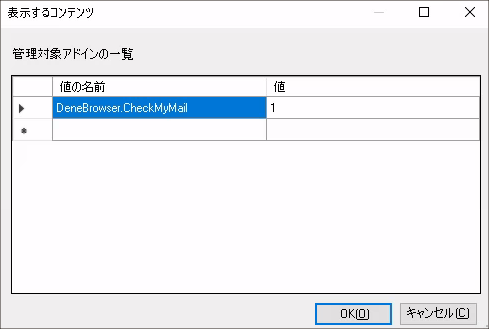
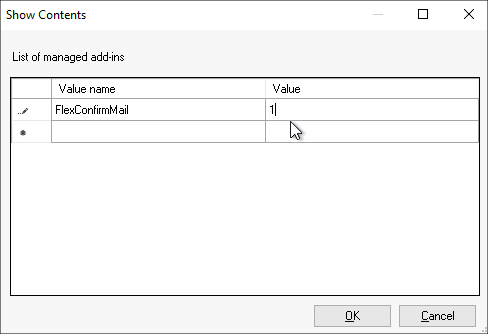
Overhaul FlexConfirmMailGuide
This one includes new screenshot images taken on WinServer 2022
using FlexConfirmMail's prerelease installer.

Note: I'm planning to release the initial version of FlexConfirmMail
as "v0.1.0".

diff --git a/doc/FlexConfirmMailGuide/FlexConfirmMailGuide.md b/doc/FlexConfirmMailGuide/FlexConfirmMailGuide.md
@@ -2,9 +2,9 @@
 CJKmainfont: Noto Sans CJK JP
 CJKoptions:
   - BoldFont=Noto Sans CJK JP Bold
-title:     CheckMyMail管理者マニュアル v1.1.0
-author:    DeneBrowser
-date:      2022-01-10
+title:     FlexConfirmMail for Outlook \newline 管理者マニュアル v0.1.0
+author:    ClearCode Inc.
+date:      2022-01-19
 logo:      fcm-logo.png
 logo-width: 300
 titlepage: true
@@ -18,9 +18,10 @@ titlepage-rule-color: "AA0000"
 titlepage-rule-height: 2
 ---
 
-# CheckMyMailとは
+# FlexConfirmMailとは
 
-CheckMyMailは、誤送信を防止するための、オープンソースのOutlookアドオンです。
+FlexConfirmMail for Outlook （以下、本文書では FlexConfirmMail と呼びます）は、
+誤送信を防止するためのオープンソースのOutlookアドオンです。
 送信時に宛先と添付ファイルをダイアログで確認することで、送信ミスを防ぎます。
 
  * メールの送信時に、宛先と添付ファイルを確認するダイアログを表示します。
@@ -29,7 +30,7 @@ CheckMyMailは、誤送信を防止するための、オープンソースのOut
 
 ## システム要件
 
-CheckMyMailは次のシステムをサポートしています。
+FlexConfirmMailは次のシステムをサポートしています。
 
  | 項目             | サポートバージョン |
  | ---------------- | ------------------ |
@@ -38,16 +39,16 @@ CheckMyMailは次のシステムをサポートしています。
 
 ## ソフトウェアの構成
 
-CheckMyMailインストーラには次のファイルが含まれています。
+FlexConfirmMailインストーラには次のファイルが含まれています。
 
-| ファイル                 |  設定内容                           |
-| ------------------------ | ----------------------------------- |
-| CheckMyMail.dll          | CheckMyMail本体                     |
-| CheckMyMail.dll.manifest | CheckMyMailマニフェスト             |
-| CheckMyMail.vsto         | Outlook向けのアドオン定義           |
-| fcm.ico                  | アイコンファイル                    |
-| unins000.exe             | アンインストーラ                    |
-| unins000.dat             | アンインストーラ（データファイル）  |
+| ファイル                     |  設定内容                           |
+| ---------------------------- | ----------------------------------- |
+| FlexConfirmMail.dll          | FlexConfirmMail本体                 |
+| FlexConfirmMail.dll.manifest | FlexConfirmMailマニフェスト         |
+| FlexConfirmMail.vsto         | Outlook向けのアドオン定義           |
+| fcm.ico                      | アイコンファイル                    |
+| unins000.exe                 | アンインストーラ                    |
+| unins000.dat                 | アンインストーラ（データファイル）  |
 | Microsoft.Office.Tools.Common.v4.0.Utilities.dll | VSTOアドオンライブラリ |
 | Microsoft.Office.Tools.Outlook.v4.0.Utilities.dll | VSTOアドオンライブラリ |
 
@@ -55,13 +56,11 @@ CheckMyMailインストーラには次のファイルが含まれています。
 
 # 導入とセットアップ
 
-この章ではCheckMyMailのインストール（およびアンインストール）手順を解説します。
+この章ではFlexConfirmMailのインストール（およびアンインストール）手順を解説します。
 
-## CheckMyMailをインストールする
+## FlexConfirmMailをインストールする
 
-1. [リリースページ](https://github.com/DeneBrowser/CheckMyMail/releases/)から最新のインストーラを取得します。
-
-   ![](download.png){width=400}
+1. 最新のインストーラを取得します。
 
 2. インストーラを実行し、ウィザードを完遂させます。
 
@@ -71,28 +70,28 @@ CheckMyMailインストーラには次のファイルが含まれています。
 
    ![](warning.png){width=400}
 
-4. メニューバーの「ファイル」からオプションを選択し、有効なアドオンの一覧にCheckMyMailがあることが確認できれば成功です。
+4. メニューバーの「ファイル」からオプションを選択し、有効なアドオンの一覧にFlexConfirmMailがあることが確認できれば成功です。
 
    ![](option.png){width=400}
 
-## CheckMyMailをアンインストールする
+## FlexConfirmMailをアンインストールする
 
  1. スタートメニューから「プログラムの追加と削除」を起動します。
 
- 2. CheckMyMailを選択し「アンインストール」を選択します。
+ 2. FlexConfirmMailを選択し「アンインストール」を選択します。
 
- 3. ディレクトリ`C:\ProgramData\CheckMyMail`を削除します。
+ 3. ディレクトリ`C:\ProgramData\FlexConfirmMail`を削除します。
 
 \newpage
 
-# CheckMyMailの設定
+# FlexConfirmMailの設定
 
- * CheckMyMailの設定ファイルは`C:\ProgramData\CheckMyMail`ディレクトリに配置します。
+ * FlexConfirmMailの設定ファイルは`C:\ProgramData\FlexConfirmMail`ディレクトリに配置します。
  * 設定ファイルの文字コードは「UTF-8」のみサポートしています。
 
 ## 社内ドメインを設定する
 
- 1. テキストエディタで`C:\ProgramData\CheckMyMail\trusted.txt`を開きます。
+ 1. テキストエディタで`C:\ProgramData\FlexConfirmMail\trusted.txt`を開きます。
 
  2. ファイルに社内の宛先として登録したいドメインを追記します。
 
@@ -104,7 +103,7 @@ CheckMyMailインストーラには次のファイルが含まれています。
 
 宛先に含まれる場合に、特に注意が必要なドメインの一覧を設定します。
 
- 1. テキストエディタで`C:\ProgramData\CheckMyMail\unsafe.txt`を開きます。
+ 1. テキストエディタで`C:\ProgramData\FlexConfirmMail\unsafe.txt`を開きます。
 
  2. ファイルに対象となるドメインを追記します。
 
@@ -120,11 +119,11 @@ CheckMyMailインストーラには次のファイルが含まれています。
 
 ## インストーラをサイレント実行したい
 
-組織の端末に配布する時などに、CheckMyMailをサイレントインストールしたい場合は、
+組織の端末に配布する時などに、FlexConfirmMailをサイレントインストールしたい場合は、
 次のように `/SILENT` オプションを利用します。
 
 ```
-% CheckMyMailSetup.exe /SILENT
+% FlexConfirmMailSetup.exe /SILENT
 ```
 
 ## アドオンが自動的に無効化されるのを防止したい
@@ -132,7 +131,7 @@ CheckMyMailインストーラには次のファイルが含まれています。
 Office 2013以降にはパフォーマンスを自動的に最適化する機能が組み込まれており、
 その一環としてアドオンを自動的に無効化することがあります。
 
-CheckMyMailが自動的に無効化されるのを防止するには、グループポリシーで下記の設定を追加ください。
+FlexConfirmMailが自動的に無効化されるのを防止するには、グループポリシーで下記の設定を追加ください。
 
  1. グループポリシーエディタを開き、「ユーザーの構成」を開く。
 
@@ -142,7 +141,7 @@ CheckMyMailが自動的に無効化されるのを防止するには、グルー
 
  4. 設定を「有効」にした上で、オプション欄の「表示」ボタンをクリックする。
 
- 5. 値の名前に`DeneBrowser.CheckMyMail`と入力し、値を`1`に設定する。
+ 5. 値の名前に`FlexConfirmMail`と入力し、値を`1`に設定する。
 
     ![](resiliency.png){width=300}
 
